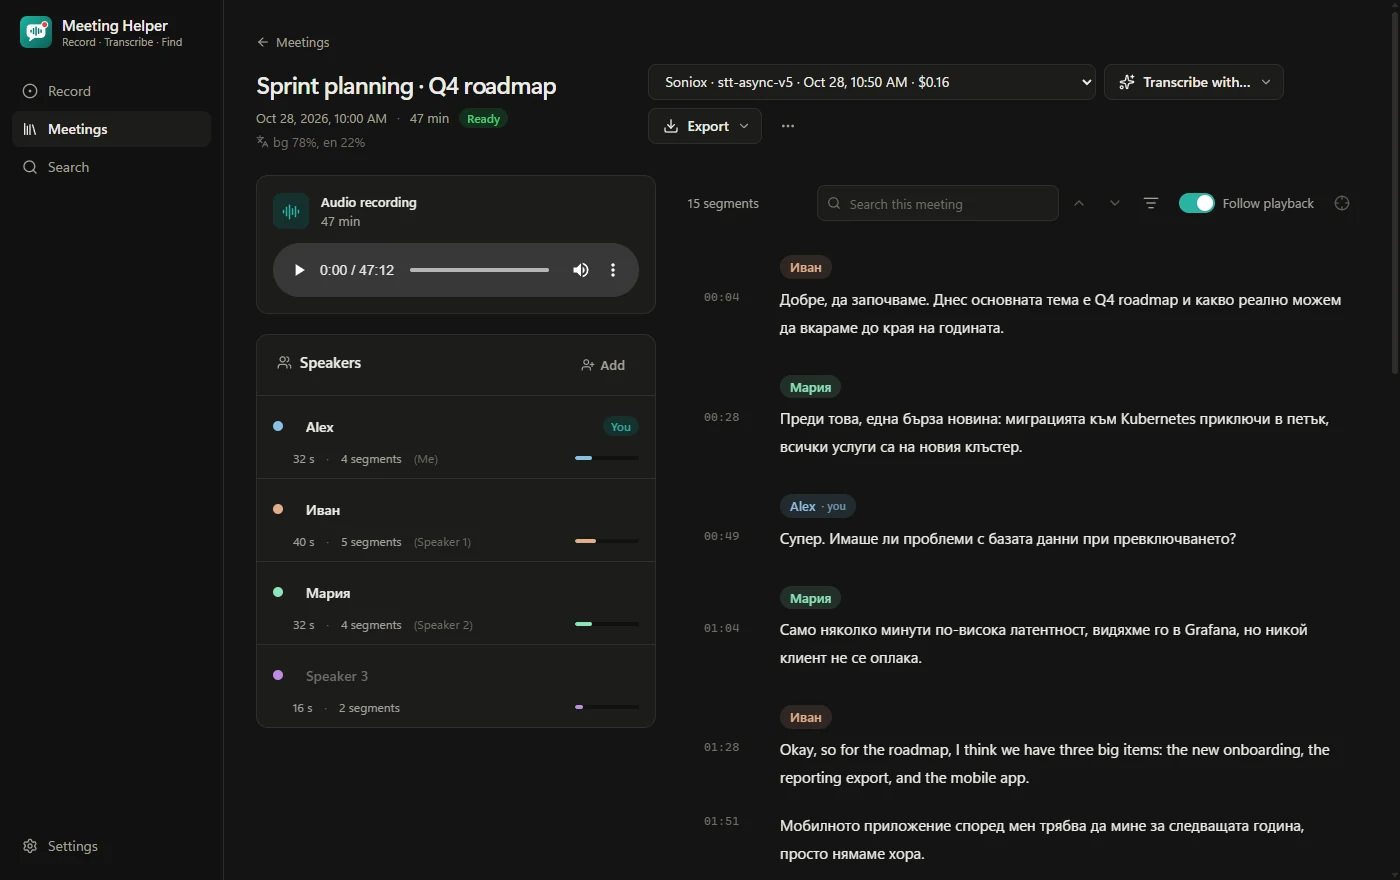
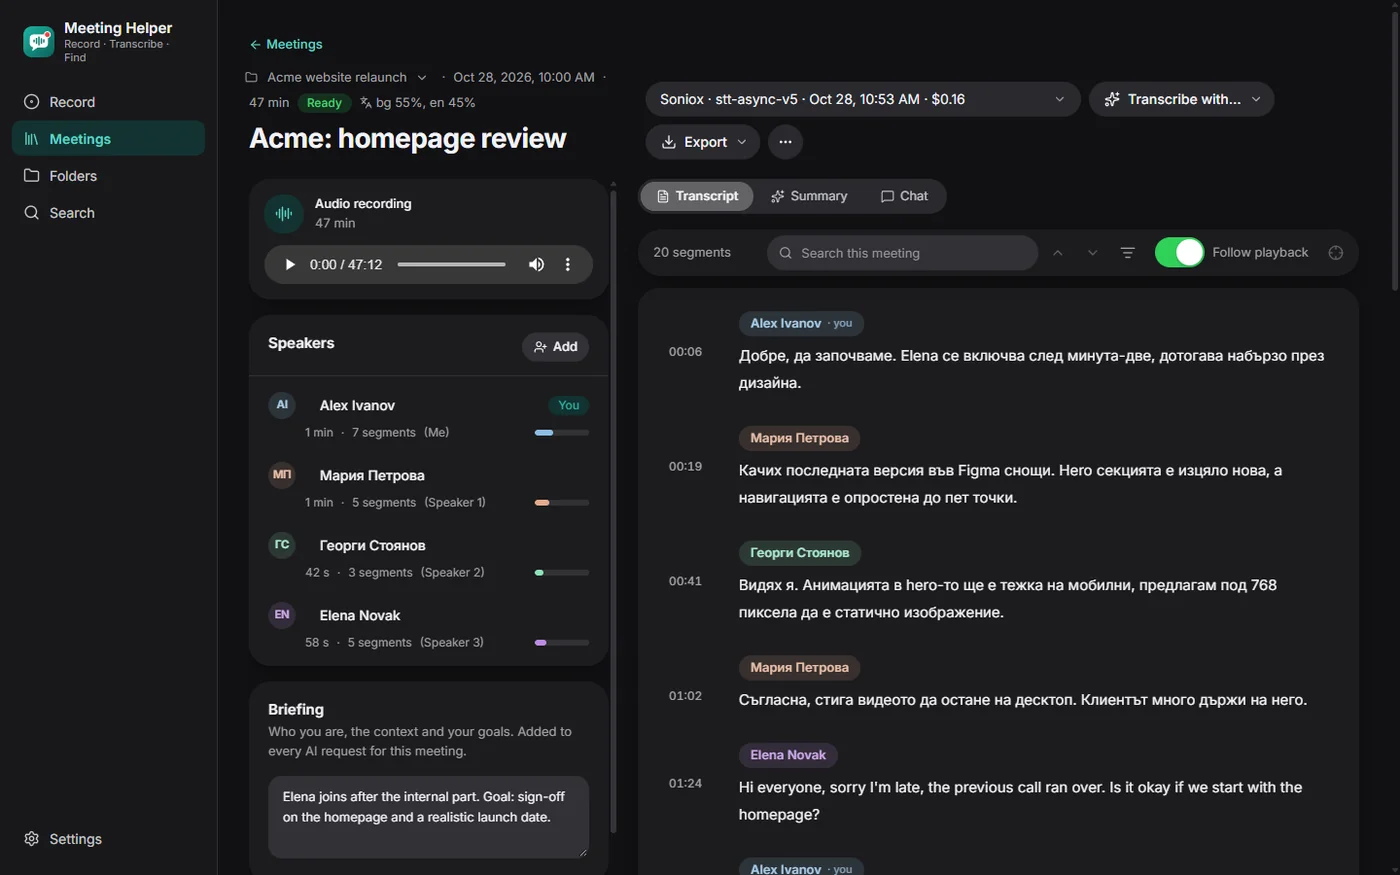
Update the README screenshots for v1.0
New shots of the meeting transcript, AI summary, folder progress, live
recording, phone remote and search. All use invented demo data, not real
meetings.

diff --git a/README.md b/README.md
@@ -48,6 +48,12 @@ Across all meetings, or within one. Copes with Bulgarian word endings: `срещ
 <br><sub>Searching every meeting at once, in the light theme</sub>
 </div>
 
+<div align="center">
+<img src="docs/screenshots/summary-light.webp" alt="A meeting's AI summary in the light theme: overview, decisions, action items and risks, each point followed by timestamp pills that jump to the transcript line" width="445">
+<img src="docs/screenshots/folders-dark.webp" alt="A project folder on the Progress tab in the dark theme: action items from several meetings with their owners, open items first and done or dropped ones crossed out" width="445">
+<br><sub>An AI summary linked to the transcript, and action items tracked across a folder's meetings</sub>
+</div>
+
 Everything stays on your computer except the audio sent to the transcription provider you pick.
 
 ## Download
@@ -82,6 +88,12 @@ The app tells you if ffmpeg or OBS is missing, and when a new version is out.
 1. In OBS: **Tools → WebSocket Server Settings → Enable WebSocket server**, then **Show Connect Info** and copy the password.
 2. In the app: **Record**, paste the password, **Connect**. The app sets up OBS's audio tracks and recording output for you.
 3. Wear headphones (otherwise your mic also picks up the other people), press record, then stop. The recording is converted to MP4 and transcribed automatically.
+
+<div align="center">
+<img src="docs/screenshots/record-live-dark.webp" alt="The Record screen during a meeting: the running timer and stop button, the live Bulgarian/English transcript, a suggested answer and rolling AI notes" width="620">
+<img src="docs/screenshots/phone.webp" alt="The phone remote: rolling notes from the meeting, with the suggested answer sheet pulled up to half height" width="277">
+<br><sub>Live transcription while recording, and the same notes and answers on your phone</sub>
+</div>
 
 ### Importing a recording
 
